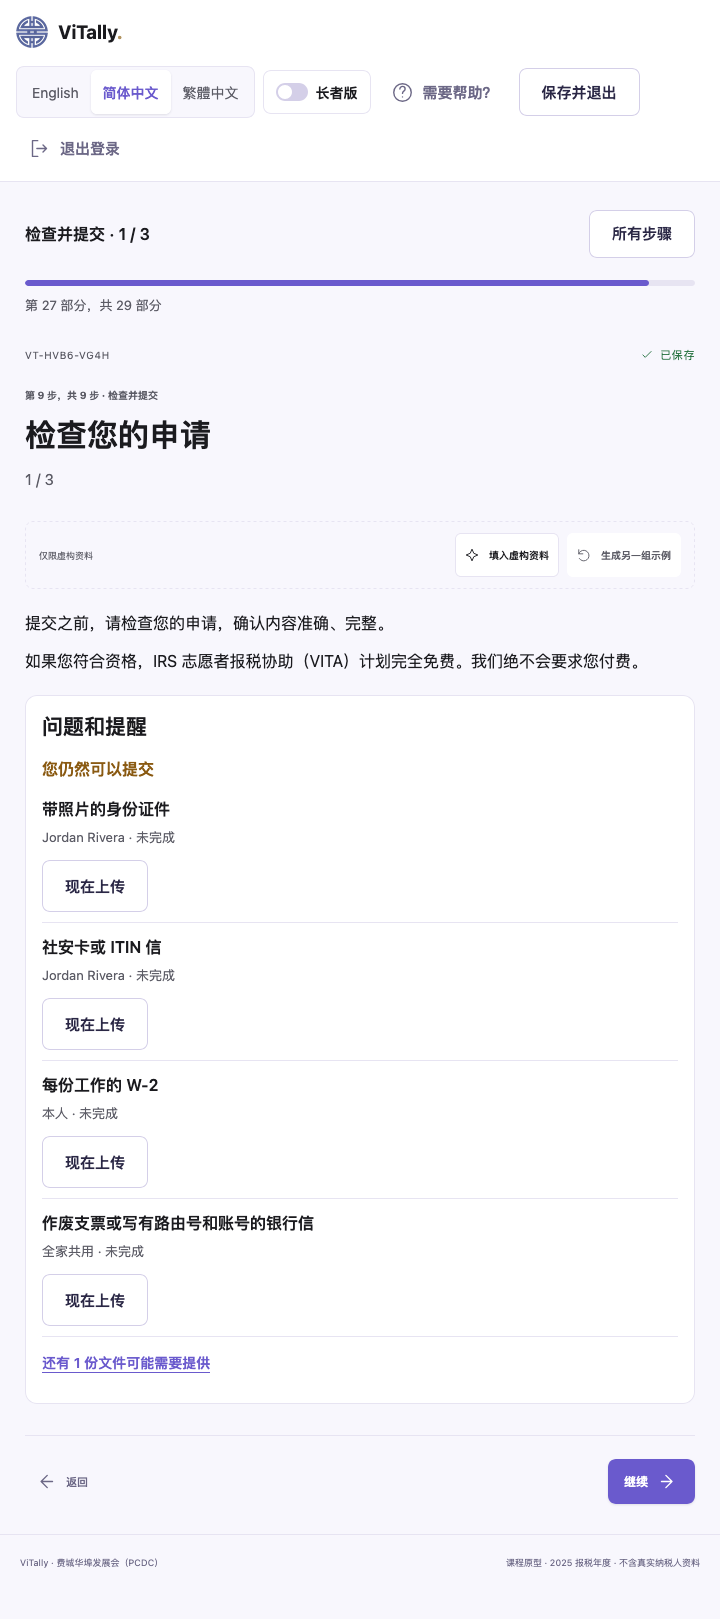
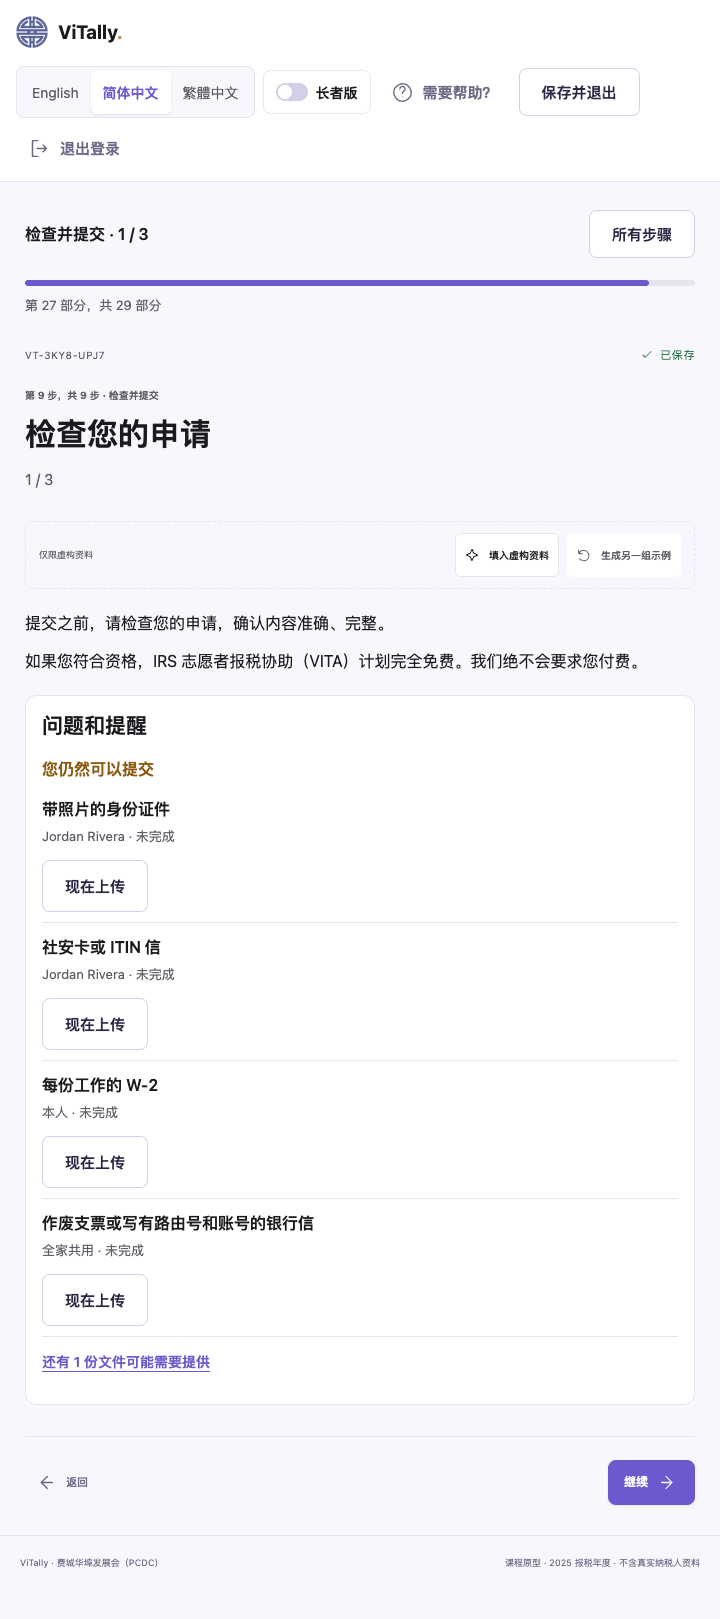
Task 9 review fixes: observed story count (59/59) and the intermittent Firefox-staff wait in the docs; screenshots from the passing run

diff --git a/docs/setup.md b/docs/setup.md
@@ -382,7 +382,7 @@ and the commands are in [`docs/developer/database.md`](developer/database.md#mig
 ## 5. Tests
 
 All commands below run from the repository root with the command-scoped `PATH` shown. Each
-suite's **last-verified count** is below. All four were last verified on the final task of part 4d (2026-10-05); re-run the
+suite's **last-verified count** is below. All four were last verified on the final task of part 4d (2026-10-05, at commit `957cbba`; the story at the first full pass, see the note below the table); re-run the
 commands yourself for the current number, since new work changes these counts.
 
 | Suite | Command | Last verified | What it proves |
@@ -390,14 +390,16 @@ commands yourself for the current number, since new work changes these counts.
 | Unit | `"$VITALLY_NODE" --test tests/*.test.mjs` | 861/861 | Pure domain/contract logic, the intake catalogue and version-2 renderer, the client text in three languages (every client screen swept in 简体 and 繁體, and the Traditional map checked against `opencc-js`), the auth/store adapters against fakes, the pure view renderers, the controller's async state machine, server allowlist/config logic — no network, no database. |
 | Database | `PATH="$VITALLY_NODE_BIN:/Users/jinyuyang/.docker/bin:$PATH" "$VITALLY_NODE" --env-file=.env.test --test tests/database*.mjs` | 233/233 | Every migration, RLS policy, RPC, and error/ordering rule against the real isolated stack: ownership, authority, idempotent replay, concurrency, Realtime publication/isolation, fixture reset and checkpoints, client numbers, and the version-2 intake checks compared with the browser's. |
 | Auth gate | `PATH="$VITALLY_NODE_BIN:/Users/jinyuyang/.docker/bin:$PATH" "$VITALLY_NODE" --env-file=.env.test --test tests/auth-browser.mjs` | 20/20, ~25–95 s | Real Chrome and real Firefox, driving the actual access form: a generated one-time code is typed in and verified through the real `verifyOtp` call; only the outbound `/auth/v1/otp` **send** is intercepted (email-free automation), never verification. |
-| Browser story | `PATH="$VITALLY_NODE_BIN:/Users/jinyuyang/.docker/bin:$PATH" "$VITALLY_NODE" --env-file=.env.test --test tests/browser.mjs` | 59 tests, ~11–13 min (see the note below the table) | The full demonstration script (see [`docs/demo-script.md`](demo-script.md)) end to end, twice, roles swapped between Chrome and Firefox, plus the regression list below. Its throwaway workspace is on version 2 (the samples too): staff read the answers, the contact card before and after a claim, record materials, edit the best time, work the document checklist and open the draft 13614-C; the office takes in a walk-in on the version-2 Add a case; one phase walks every sub-step of the redesigned intake, marks document cards, reviews, opens the draft 13614-C and submits; one phase sets the workspace back to version 1 to finish a draft in the old form and to create a case on the old Add a case; and one phase checks the staff sidebar's peek and pin (peek without pushing the page, stay, a realtime redraw during a peek, close after leaving, pin, no re-peek after a collapse, keyboard, a dialog opened from a peek, and touch); and one phase works in Chinese in its own `zh-CN` browser context (the first visit is 简体 from the browser's language, the version-2 intake by Fill and the rail, submit, the progress page and its history in Chinese, one switch to 繁體 that fetches the Traditional map for the first time, a reload that keeps it, and back to English). Every other context is pinned to `en-US`. Optional to re-run before every rehearsal, but recommended before a presentation. |
+| Browser story | `PATH="$VITALLY_NODE_BIN:/Users/jinyuyang/.docker/bin:$PATH" "$VITALLY_NODE" --env-file=.env.test --test tests/browser.mjs` | 59/59, ~11–16 min (see the note below the table) | The full demonstration script (see [`docs/demo-script.md`](demo-script.md)) end to end, twice, roles swapped between Chrome and Firefox, plus the regression list below. Its throwaway workspace is on version 2 (the samples too): staff read the answers, the contact card before and after a claim, record materials, edit the best time, work the document checklist and open the draft 13614-C; the office takes in a walk-in on the version-2 Add a case; one phase walks every sub-step of the redesigned intake, marks document cards, reviews, opens the draft 13614-C and submits; one phase sets the workspace back to version 1 to finish a draft in the old form and to create a case on the old Add a case; and one phase checks the staff sidebar's peek and pin (peek without pushing the page, stay, a realtime redraw during a peek, close after leaving, pin, no re-peek after a collapse, keyboard, a dialog opened from a peek, and touch); and one phase works in Chinese in its own `zh-CN` browser context (the first visit is 简体 from the browser's language, the version-2 intake by Fill and the rail, submit, the progress page and its history in Chinese, one switch to 繁體 that fetches the Traditional map for the first time, a reload that keeps it, and back to English). Every other context is pinned to `en-US`. Optional to re-run before every rehearsal, but recommended before a presentation. |
 
-On 2026-10-05 (part 4d's last task, a busy machine) the Firefox-client/Chrome-staff permutation
-passed every phase, the new Chinese phase included, twice; the Chrome-client/Firefox-staff
-permutation stopped both times in an earlier staff phase on a Firefox-staff timing wait ("Sam
-records the call…" waiting for the persona, then "the office takes in a walk-in…" waiting for the
-materials mark). The same permutation at the commit before part 4d's last task stopped at the same
-persona wait, so it is not caused by that change; it is recorded here until it is looked into.
+The story passed 59/59 on 2026-10-05 (about 16 minutes, on a machine with a load average of 8–11
+on 8 cores). The same day, three earlier full runs stopped in the Chrome-client/Firefox-staff
+permutation on a Firefox-staff wait that a single staff press never satisfied ("Sam records the
+call…" waiting for the chosen persona once; "the office takes in a walk-in…" waiting for the
+materials mark twice). It is intermittent and not tied to one commit: that permutation on its own
+failed once at `bc1994e` and passed at `a91e1f5`, `a704402` and `957cbba`, and no commit between
+them touches a staff screen. If a run stops there, run it again; a run on a quiet machine is the
+better check.
 
 Install the second browser engine once, with the same scoped `PATH`, before the first auth-gate or
 story run (Chrome runs through an already-installed Google Chrome browser via

diff --git a/docs/developer/frontend.md b/docs/developer/frontend.md
@@ -430,7 +430,7 @@ the keyboard stays on the pressed one.
 | --- | --- | --- |
 | Unit (861) | `npm test` | Controller against doubles, renderers as strings, payload builders, eligibility, store mapping, auth, focus logic. No browser, no network |
 | Sign-in gate (20) | `npm run test:auth-browser` | Real sign-in through the real form in Chrome and Firefox against the local stack |
-| Story (59) | `npm run test:browser` | The full demonstration in two browsers at once, both engine orders, plus regressions (conflicts, offline retry, privacy, keyboard). The story's workspace is on version 2; one phase sets it to 1 for the old form, and one works in Chinese in its own `zh-CN` context (every other context is pinned to `en-US`). `loginTestUserById` in `tests/support/browser-fixture.mjs` signs in without English locators |
+| Story (59) | `npm run test:browser` | The full demonstration in two browsers at once, both engine orders, plus regressions (conflicts, offline retry, privacy, keyboard). The story's workspace is on version 2; one phase sets it to 1 for the old form, and one works in Chinese in its own `zh-CN` context (every other context is pinned to `en-US`). `loginTestUserById` in `tests/support/browser-fixture.mjs` signs in without English locators. On a busy machine a Firefox-staff wait can time out ([setup](../setup.md#5-tests)); run it again |
 
 Run the browser suites with the `PATH` prefix from [`docs/setup.md`](../setup.md#5-tests). The
 story writes screenshots to `artifacts/browser/` (git-ignored). Helpers for driving the pages are in
